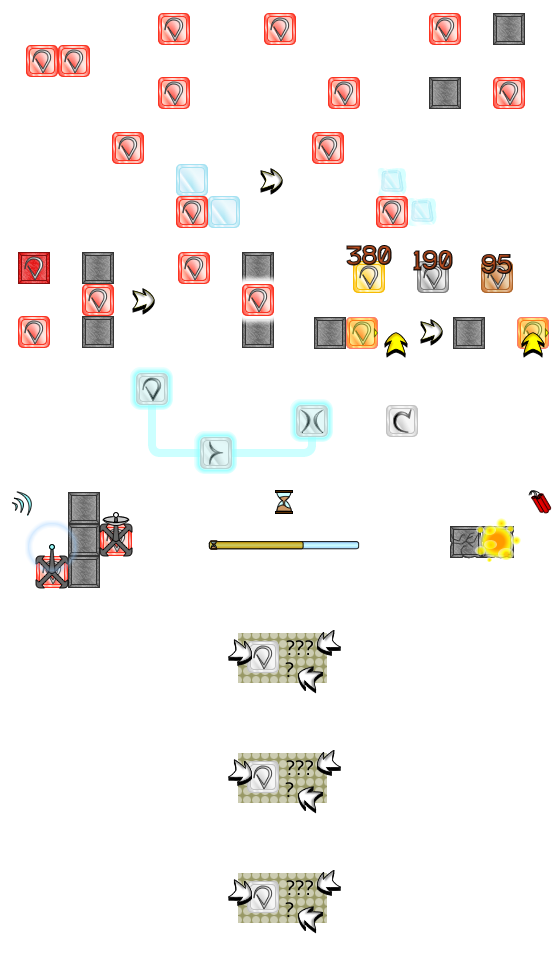
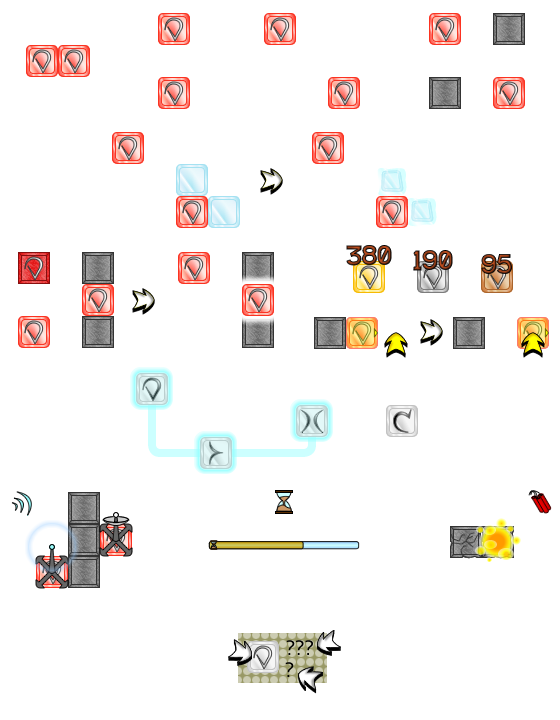
Remove text from images.

diff --git a/menu.rb b/menu.rb
@@ -82,7 +82,7 @@ class Menu < Controller
 
     @board1 = Res.img(:main_Board)
     @board2 = Res.img(:main_Board2)
-    @instructions_images = Res.imgs(:main_instructions, 1, 8)
+    @instructions_images = Res.imgs(:main_instructions, 1, 6)
 
     set_state :main, false
   end
@@ -176,10 +176,11 @@ class Menu < Controller
       ConnecMan.default_font.draw_text_rel(ConnecMan.text(:no_saved_games), Const::SCR_W / 2, Const::SCR_H / 2, 0, 0.5, 0, 1, 1, 0xffffffff)
     elsif @state == :instructions
       ConnecMan.text_helper.write_breaking(ConnecMan.text("instructions_#{@page_index}"), 120, 190, 560, :justified, 0xffffff)
-      if @page_index < 5
-        @instructions_images[@page_index].draw(120, 330, 0)
-      elsif @page_index == 5
-        @instructions_images[@page_index + ConnecMan.language_index].draw(120, 330, 0)
+      @instructions_images[@page_index].draw(120, 330, 0)
+      if @page_index == 5
+        ConnecMan.text_helper.write_line(ConnecMan.text(:inst_image_1), 343, 370, :right, 0xffffff)
+        ConnecMan.text_helper.write_line(ConnecMan.text(:inst_image_2), 465, 363, :left, 0xffffff)
+        ConnecMan.text_helper.write_line(ConnecMan.text(:inst_image_3), 452, 406, :left, 0xffffff)
       end
     elsif @state == :about
       ConnecMan.text_helper.write_breaking(ConnecMan.text("about_#{@page_index}"), 120, 190, 560, :justified, 0xffffff, 255, 0, 1, 1)
@@ -201,7 +202,7 @@ class Menu < Controller
     else
       @controls[@state].each(&:draw) if @state != :main
     end
-    
+
     super
   end
 end
